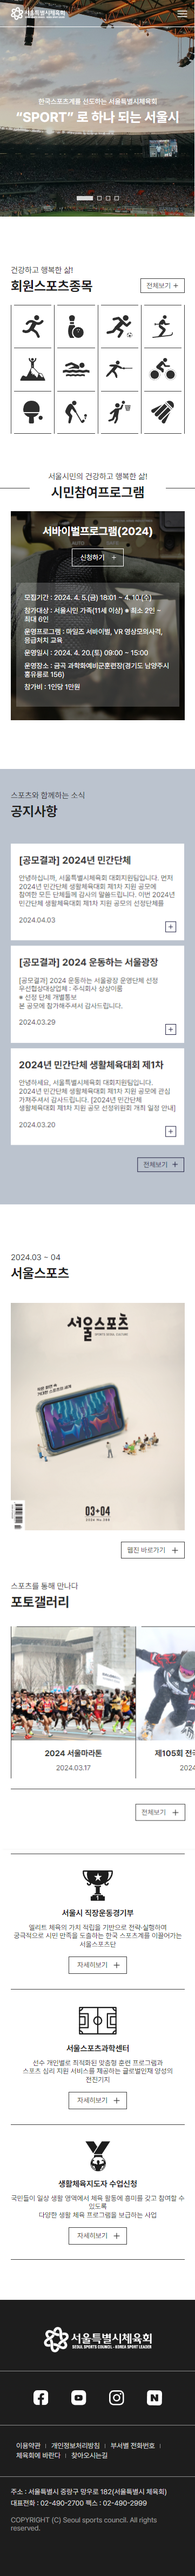
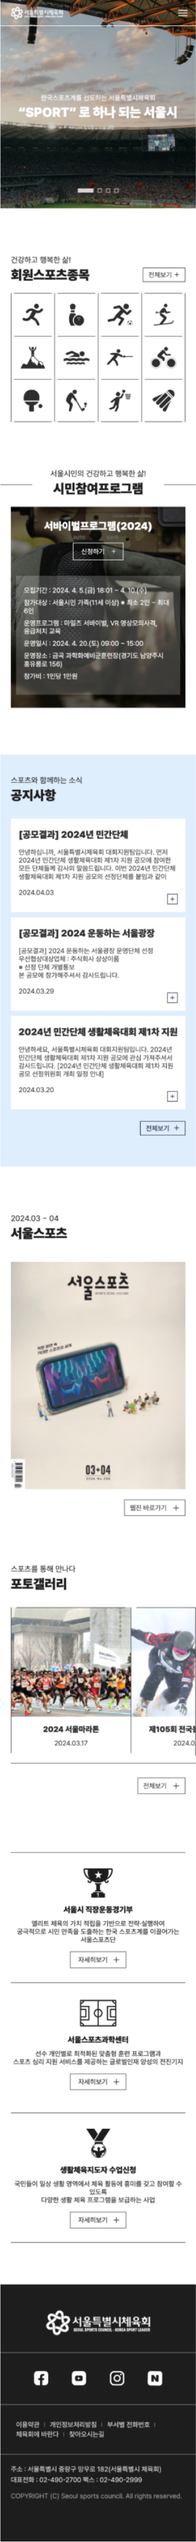
.

Changed region(s): [[0.0, 0.0, 1.0, 0.7152], [0.0, 0.7152, 1.0, 1.0], [0.8837, 0.7463, 0.9141, 0.7774]]

diff --git a/portfolio/css/contents.css b/portfolio/css/contents.css
@@ -1784,7 +1784,7 @@
     display: block;
     font-size: 30px;
     font-weight: 700;
-    color: #0069B5;
+    color: #1E1D3F;
     margin: 10px 0 20px 0;
 }
 .sport .type_grup {
@@ -1807,7 +1807,7 @@
 .sport .type_grup .color h1 {
     font-size: 20px;
     font-weight: 700;
-    color: #0069B5;
+    color: #1E1D3F;
     padding-top: 40px;
     margin-bottom: 15px;
 }
@@ -1844,10 +1844,10 @@
 }
 .sport .type_grup .color .main span {
     display: block;
-    color: #fff;
+    color: #1E1D3F;
     width: 100%;
     line-height: 80px;
-    background-color: #BBC3CE;
+    background-color: #DFEEFD;
     border-radius: 10px;
 }
 .sport .type_grup .color .sub ul {
@@ -1885,7 +1885,7 @@
 .sport .detail h1 {
     font-size: 60px;
     font-weight: 700;
-    color: #fff;
+    color: #1d1d1d;
     padding-top: 100px;
 }
 .sport .detail .main {

diff --git a/portfolio/contents/sport.html b/portfolio/contents/sport.html
@@ -114,7 +114,7 @@
                             <div class="list">
                                 <div class="main">
                                     <strong>main</strong>
-                                    <span>#BBC3CE</span>
+                                    <span>#DFEEFD</span>
                                 </div>
                                 <div class="sub">
                                     <strong>sub</strong>
